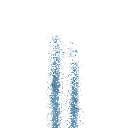
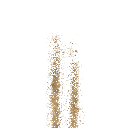
invert colors for DXT compressed items

Changed region(s): [[0.3438, 0.25, 0.6562, 1.0], [0.5625, 0.375, 0.625, 0.4062]]

diff --git a/csDBPF/csDBPF/Entries/DBPFEntryFSH.cs b/csDBPF/csDBPF/Entries/DBPFEntryFSH.cs
@@ -335,7 +335,13 @@ namespace csDBPF {
                             byte g = Bitmap[pixelIndex++];
                             byte b = Bitmap[pixelIndex++];
                             byte a = Bitmap[pixelIndex++];
-                            row[x] = new Rgba32(r, g, b, a);
+                            //Channel order for DXT compressed data is BGRA instead of RGBA
+                            if (Code == BitmapType.DXT1 || Code == BitmapType.DXT3) {
+                                row[x] = new Rgba32(b, g, r, a); 
+                            } else {
+                                row[x] = new Rgba32(r, g, b, a);
+                            }
+                            
                         }
                     }
                 });
@@ -490,7 +496,6 @@ namespace csDBPF {
             }
 
             
-            //Source: https://github.com/mafaca/Dxt/blob/master/Dxt/DxtDecoder.cs
             /// <summary>
             /// Decompresses an image compressed in the DXT1 format to a bitmap (a byte[] of rgba values).
             /// </summary>
